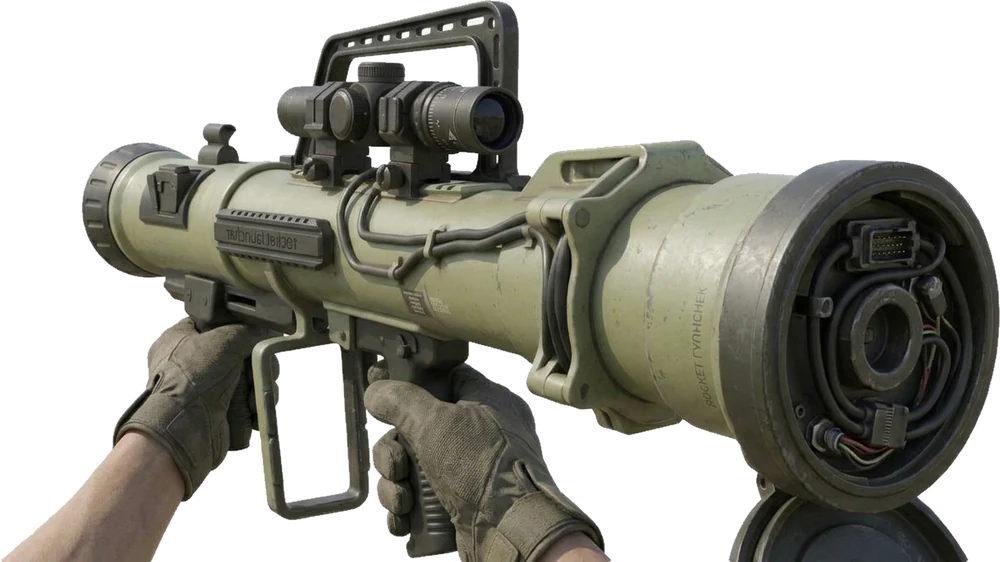
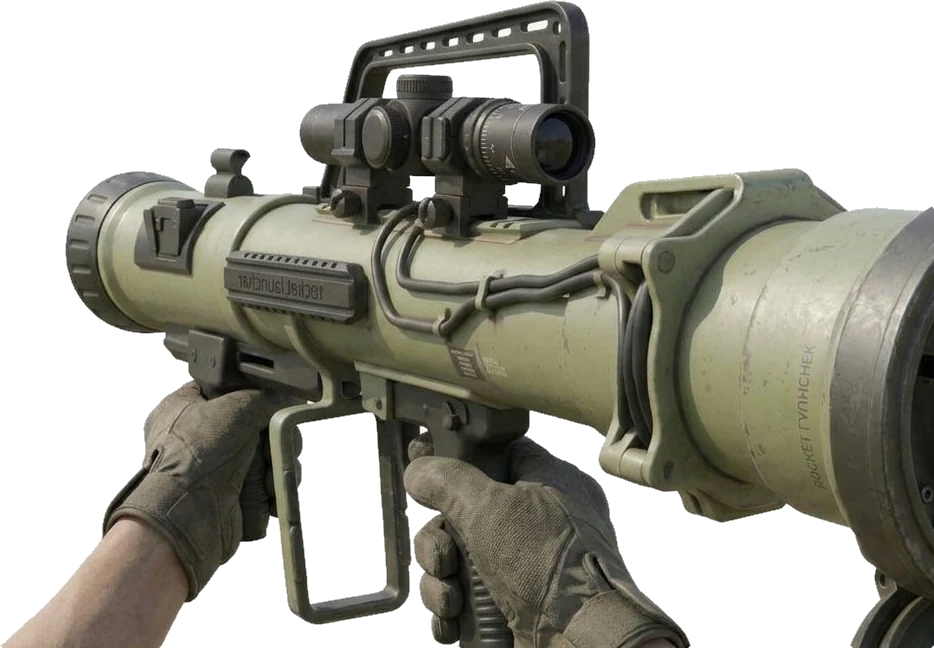
Invasión (correcciones 6): sonido de recarga, el doble de balas, fogonazos en los disparos, bazooka nueva sin carga de misil y 5 aliens nuevos (Anfibio, Brutox, Esporal, Mantis y Reptiliano) que caminan cuadro a cuadro
Claude-Session: https://claude.ai/code/session_01WPvz5PN7gSQSsHQttdLk8C

diff --git a/src/features/games/invasionWeapons.ts b/src/features/games/invasionWeapons.ts
@@ -10,7 +10,6 @@ import machineHand from './assets/invasion/armas/ametralladora-mano.webp';
 import machineReload from './assets/invasion/armas/ametralladora-carga.webp';
 import machineScope from './assets/invasion/armas/mira-ametralladora.webp';
 import bazookaHand from './assets/invasion/armas/bazooka-mano.webp';
-import bazookaReload from './assets/invasion/armas/bazooka-carga.webp';
 import type { Weapon } from './invasion';
 
 const images = new Map<string, HTMLImageElement>();
@@ -19,26 +18,32 @@ function img(url: string) {
   if (!im && typeof Image !== 'undefined') { im = new Image(); im.decoding = 'async'; im.src = url; images.set(url, im); }
   return im && im.complete && im.naturalWidth ? im : null;
 }
-export function preloadWeapons() { for (const u of [rifleHand, rifleReload, rifleScope, machineHand, machineReload, machineScope, bazookaHand, bazookaReload]) img(u); }
+export function preloadWeapons() { for (const u of [rifleHand, rifleReload, rifleScope, machineHand, machineReload, machineScope, bazookaHand]) img(u); }
 
 // Cómo va cada arma en la mano: alto (en fracción del alto de la pantalla) y cuánto se mete en el borde derecho.
 // `aim` (opcional): el caño de la imagen (boca de adelante y de atrás, en px de la imagen); el arma se ubica para
 // que esa línea pase justo por el "+" del medio, con la boca a `gap` (fracción del alto) del centro y girada `tilt`.
 interface Aim { front: [number, number]; back: [number, number]; tilt: number; gap: number }
-const HELD: Record<Weapon, { hand: string; reload: string; tall: number; reloadTall: number; out: number; reloadX: number; aim?: Aim }> = {
-  rifle: { hand: rifleHand, reload: rifleReload, tall: 0.6, reloadTall: 0.68, out: 0.06, reloadX: 0.6 },
-  machine: { hand: machineHand, reload: machineReload, tall: 0.56, reloadTall: 0.58, out: 0.04, reloadX: 0.66 },
-  bazooka: { hand: bazookaHand, reload: bazookaReload, tall: 0.8, reloadTall: 0.56, out: 0.06, reloadX: 0.6, aim: { front: [125, 210], back: [870, 330], tilt: 0.2, gap: 0.11 } },
+// `muzzle`: la boca del arma en la imagen de la mano (px de la imagen), para el fogonazo. `reload` null: no tiene imagen
+// de carga (la bazooka: al recargar solo baja un poco y vuelve).
+const HELD: Record<Weapon, { hand: string; reload: string | null; tall: number; reloadTall: number; out: number; reloadX: number; aim?: Aim; muzzle: [number, number]; flash: number }> = {
+  rifle: { hand: rifleHand, reload: rifleReload, tall: 0.6, reloadTall: 0.68, out: 0.06, reloadX: 0.6, muzzle: [392, 214], flash: 0.1 },
+  machine: { hand: machineHand, reload: machineReload, tall: 0.56, reloadTall: 0.58, out: 0.04, reloadX: 0.66, muzzle: [58, 175], flash: 0.08 },
+  bazooka: { hand: bazookaHand, reload: null, tall: 0.86, reloadTall: 0.86, out: 0.06, reloadX: 0.6, aim: { front: [100, 250], back: [880, 330], tilt: 0.2, gap: 0.11 }, muzzle: [100, 250], flash: 0.17 },
 };
 
 // El arma en la mano. `reload` va de 0 a 1 mientras se recarga (null si no); `kick` es el retroceso.
-export function drawHeldWeapon(ctx: CanvasRenderingContext2D, weapon: Weapon, w: number, h: number, mx: number, my: number, t: number, kick: number, reload: number | null) {
-  const d = HELD[weapon], im = img(reload === null ? d.hand : d.reload);
+export function drawHeldWeapon(ctx: CanvasRenderingContext2D, weapon: Weapon, w: number, h: number, mx: number, my: number, t: number, kick: number, reload: number | null, flash = 0) {
+  const d = HELD[weapon];
+  // Sin imagen de carga (la bazooka): al recargar se ve la misma arma, que baja un poco y vuelve.
+  const dip = reload !== null && !d.reload ? Math.sin(Math.min(1, reload) * Math.PI) * h * 0.22 : 0;
+  if (reload !== null && !d.reload) reload = null;
+  const im = img(reload === null ? d.hand : d.reload ?? d.hand);
   if (!im) return;
   const tall = h * (reload === null ? d.tall : d.reloadTall), wide = tall * im.naturalWidth / im.naturalHeight;
   // Se mueve un poco con la mira y con la respiración; el retroceso la tira para abajo y a la derecha.
   const swayX = (mx - w / 2) * 0.05, swayY = (my - h / 2) * 0.04 + Math.sin(t * 1.7) * h * 0.004;
-  let x: number, y = h - tall + h * 0.03 + swayY + kick * h * 0.035;
+  let x: number, y = h - tall + h * 0.03 + swayY + kick * h * 0.035 + dip;
   if (reload === null) x = w - wide * (1 - d.out) + swayX + kick * w * 0.012;
   else {
     // Al recargar: entra desde abajo, se mueve un poco mientras carga y vuelve a bajar.
@@ -52,15 +57,42 @@ export function drawHeldWeapon(ctx: CanvasRenderingContext2D, weapon: Weapon, w:
     const ax = A.front[0] - A.back[0], ay = A.front[1] - A.back[1], L = Math.hypot(ax, ay);
     const rot = A.tilt + kick * 0.04, ca = Math.cos(rot), sa = Math.sin(rot);
     const ux = (ax * ca - ay * sa) / L, uy = (ax * sa + ay * ca) / L; // hacia adonde apunta, ya girado
-    const mxs = w / 2 - ux * A.gap * h + swayX + kick * w * 0.01, mys = h / 2 - uy * A.gap * h + swayY + kick * h * 0.03;
+    const mxs = w / 2 - ux * A.gap * h + swayX + kick * w * 0.01, mys = h / 2 - uy * A.gap * h + swayY + kick * h * 0.03 + dip;
     ctx.save(); ctx.translate(mxs, mys); ctx.rotate(rot);
     ctx.drawImage(im, -A.front[0] * k, -A.front[1] * k, im.naturalWidth * k, tall);
     ctx.restore();
+    if (flash > 0) drawMuzzleFlash(ctx, mxs + ux * h * 0.02, mys + uy * h * 0.02, d.flash * h, flash, Math.atan2(uy, ux), t);
     return;
   }
   ctx.save();
   ctx.translate(x + wide * 0.5, y + tall * 0.5); ctx.rotate(kick * 0.03); ctx.translate(-(x + wide * 0.5), -(y + tall * 0.5));
   ctx.drawImage(im, x, y, wide, tall);
+  ctx.restore();
+  if (flash > 0 && reload === null) { const k = tall / im.naturalHeight; drawMuzzleFlash(ctx, x + d.muzzle[0] * k, y + d.muzzle[1] * k, d.flash * h, flash, Math.atan2(h / 2 - (y + d.muzzle[1] * k), w / 2 - (x + d.muzzle[0] * k)), t); }
+}
+
+// El fogonazo del disparo: un núcleo blanco, una llamarada en estrella hacia adelante (gira al azar en cada tiro) y
+// un brillo que ilumina un poco toda la pantalla. `f` va de 1 (recién disparado) a 0.
+export function drawMuzzleFlash(ctx: CanvasRenderingContext2D, x: number, y: number, size: number, f: number, dir: number, t: number) {
+  const r = size * (0.6 + f * 0.6);
+  ctx.save(); ctx.globalCompositeOperation = 'lighter';
+  const halo = ctx.createRadialGradient(x, y, 0, x, y, r * 2.4);
+  halo.addColorStop(0, `rgba(255,236,170,${0.55 * f})`); halo.addColorStop(0.35, `rgba(255,170,60,${0.3 * f})`); halo.addColorStop(1, 'rgba(255,120,30,0)');
+  ctx.fillStyle = halo; ctx.fillRect(x - r * 2.4, y - r * 2.4, r * 4.8, r * 4.8);
+  ctx.translate(x, y); ctx.rotate(dir + Math.sin(t * 97) * 0.25);
+  const spikes = 7, seed = Math.floor(t * 60);
+  ctx.beginPath();
+  for (let i = 0; i <= spikes * 2; i++) {
+    const a = i / (spikes * 2) * Math.PI * 2, long = i % 2 === 0, fwd = Math.max(0, Math.cos(a));
+    const len = long ? r * (0.55 + fwd * 1.3) * (0.75 + ((seed * 7 + i * 13) % 10) / 20) : r * 0.25;
+    const px = Math.cos(a) * len, py = Math.sin(a) * len * 0.7;
+    if (i) ctx.lineTo(px, py); else ctx.moveTo(px, py);
+  }
+  ctx.closePath();
+  const fire = ctx.createRadialGradient(0, 0, 0, 0, 0, r * 1.6);
+  fire.addColorStop(0, `rgba(255,255,240,${f})`); fire.addColorStop(0.3, `rgba(255,214,110,${0.95 * f})`); fire.addColorStop(1, `rgba(255,110,20,${0.15 * f})`);
+  ctx.fillStyle = fire; ctx.fill();
+  ctx.fillStyle = `rgba(255,255,255,${f})`; ctx.beginPath(); ctx.ellipse(0, 0, r * 0.32, r * 0.22, 0, 0, Math.PI * 2); ctx.fill();
   ctx.restore();
 }
 
@@ -87,7 +119,7 @@ const SCOPES = {
 export const hasScope = (weapon: Weapon) => weapon !== 'bazooka';
 
 // El vidrio de la mira centrado en (x, y), de "radio" R. `lens` dibuja la ciudad con zoom adentro (ya recortada).
-export function drawScopeView(ctx: CanvasRenderingContext2D, weapon: Weapon, x: number, y: number, R: number, zoom: number, kick: number, lens: (clip: () => void) => void) {
+export function drawScopeView(ctx: CanvasRenderingContext2D, weapon: Weapon, x: number, y: number, R: number, zoom: number, kick: number, lens: (clip: () => void) => void, flash = 0) {
   if (weapon === 'bazooka') return;
   const S = SCOPES[weapon], im = img(S.url);
   const k = weapon === 'rifle' ? R / SCOPES.rifle.r : (R * 1.08) / SCOPES.machine.hw;
@@ -108,7 +140,7 @@ export function drawScopeView(ctx: CanvasRenderingContext2D, weapon: Weapon, x: 
     ctx.strokeStyle = 'rgba(0,0,0,0.45)'; ctx.lineWidth = 14 * k; ctx.strokeRect(x - SCOPES.machine.hw * k, y - SCOPES.machine.hh * k, SCOPES.machine.hw * 2 * k, SCOPES.machine.hh * 2 * k);
     ctx.fillStyle = 'rgba(40,255,120,0.04)'; ctx.fillRect(x - SCOPES.machine.hw * k, y - SCOPES.machine.hh * k, SCOPES.machine.hw * 2 * k, SCOPES.machine.hh * 2 * k); // un poco de tinte de pantalla
   }
-  if (kick > 0.6) { ctx.fillStyle = `rgba(255,220,150,${(kick - 0.6) * 0.5})`; ctx.fillRect(x - R * 2, y - R * 2, R * 4, R * 4); }
+  if (flash > 0) { ctx.fillStyle = `rgba(255,220,150,${flash * 0.28})`; ctx.fillRect(x - R * 2, y - R * 2, R * 4, R * 4); drawMuzzleFlash(ctx, x, y + R * 0.95, R * 0.35, flash, -Math.PI / 2, kick); } // el fogonazo asoma por abajo del vidrio
   ctx.restore();
   if (im) ctx.drawImage(im, x - S.cx * k, y - S.cy * k, im.naturalWidth * k, im.naturalHeight * k);
   // El aumento, arriba a la derecha del vidrio.

diff --git a/src/features/games/invasionAliens.ts b/src/features/games/invasionAliens.ts
@@ -1,0 +1,68 @@
+// Los aliens nuevos de Invasión (hojas de personaje que pasó el usuario: Anfibio, Brutox, Esporal, Mantis y
+// Reptiliano). De cada hoja se recortaron los 8 cuadros de "caminando a la derecha" (y el ataque del Anfibio):
+// caminan cuadro a cuadro (stop motion), alineados por el torso y los pies. Quietos usan el primer cuadro; para
+// la izquierda se espeja (lo hace quien llama). Cada cuadro: x, y, ancho, alto en el atlas, el centro del torso
+// (x) y la mano de adelante (x, y), en px del cuadro.
+import anfibioUrl from './assets/invasion/aliens/anfibio.webp';
+import brutoxUrl from './assets/invasion/aliens/brutox.webp';
+import esporalUrl from './assets/invasion/aliens/esporal.webp';
+import mantisUrl from './assets/invasion/aliens/mantis.webp';
+import reptilianoUrl from './assets/invasion/aliens/reptiliano.webp';
+
+type Frame = [number, number, number, number, number, number, number];
+export type AlienSpecies = 'gris' | 'anfibio' | 'brutox' | 'esporal' | 'mantis' | 'reptiliano';
+export const ALIEN_SPECIES: AlienSpecies[] = ['gris', 'anfibio', 'brutox', 'esporal', 'mantis', 'reptiliano'];
+const SPECIES: Record<Exclude<AlienSpecies, 'gris'>, { url: string; tall: number; maxH: number; glow: string; frames: Frame[]; attack: Frame | null }> = {
+  anfibio: { url: anfibioUrl, tall: 1.0, maxH: 124, glow: 'rgba(80,230,255,0.95)', frames: [[0, 29, 104, 124, 53.5, 88, 78], [106, 29, 102, 124, 52.8, 91, 77], [210, 30, 106, 123, 60.2, 89, 76], [318, 30, 101, 123, 57.6, 87, 76], [421, 30, 105, 123, 58.8, 90, 74], [528, 29, 106, 124, 58.3, 91, 77], [636, 29, 106, 124, 57.8, 88, 77], [744, 31, 108, 122, 61.8, 94, 76]], attack: [854, 0, 149, 153, 67.7, 145, 54] },
+  brutox: { url: brutoxUrl, tall: 1.15, maxH: 168, glow: 'rgba(255,90,50,0.95)', frames: [[0, 4, 129, 164, 68.9, 127, 97], [131, 5, 109, 163, 50.8, 103, 96], [242, 6, 116, 162, 59.6, 100, 91], [360, 8, 123, 160, 58.8, 109, 98], [485, 2, 115, 166, 61.5, 113, 102], [602, 2, 117, 166, 57.2, 100, 103], [721, 2, 133, 166, 73.5, 132, 100], [856, 0, 124, 168, 68.0, 123, 101]], attack: null },
+  esporal: { url: esporalUrl, tall: 1.05, maxH: 111, glow: 'rgba(170,255,60,0.95)', frames: [[0, 1, 84, 110, 48.7, 80, 69], [86, 0, 82, 111, 45.7, 77, 70], [170, 1, 85, 110, 52.8, 84, 65], [257, 2, 90, 109, 53.7, 87, 69], [349, 1, 83, 110, 47.3, 66, 70], [434, 1, 89, 110, 52.9, 80, 70], [525, 1, 94, 110, 50.6, 88, 70], [621, 1, 82, 110, 44.9, 78, 70]], attack: null },
+  mantis: { url: mantisUrl, tall: 1.15, maxH: 197, glow: 'rgba(210,255,90,0.95)', frames: [[0, 6, 102, 191, 46.6, 96, 109], [104, 1, 108, 196, 52.9, 107, 101], [214, 0, 98, 197, 47.1, 97, 101], [314, 1, 117, 196, 59.6, 116, 104], [433, 1, 105, 196, 49.7, 104, 103], [540, 1, 85, 196, 42.6, 84, 102], [627, 7, 98, 190, 54.0, 97, 111], [727, 0, 85, 197, 43.0, 77, 107]], attack: null },
+  reptiliano: { url: reptilianoUrl, tall: 1.0, maxH: 106, glow: 'rgba(255,170,60,0.95)', frames: [[0, 1, 107, 105, 67.6, 93, 58], [109, 1, 95, 105, 67.9, 94, 58], [206, 1, 107, 105, 73.0, 106, 56], [315, 0, 115, 106, 72.6, 102, 58], [432, 1, 115, 105, 73.0, 99, 58], [549, 1, 116, 105, 71.0, 100, 57], [667, 1, 113, 105, 72.1, 103, 57], [782, 1, 116, 105, 76.7, 103, 59]], attack: null },
+};
+
+const loaded = new Map<string, { img: HTMLImageElement; black: HTMLCanvasElement | null; ok: boolean }>();
+function atlas(url: string) {
+  let a = loaded.get(url);
+  if (!a && typeof Image !== 'undefined') {
+    const img = new Image(); a = { img, black: null, ok: false }; loaded.set(url, a);
+    const entry = a;
+    img.onload = () => {
+      entry.ok = true;
+      const c = document.createElement('canvas'); c.width = img.width; c.height = img.height; // copia negra (la sombra en la pared)
+      const x = c.getContext('2d'); if (x) { x.drawImage(img, 0, 0); x.globalCompositeOperation = 'source-in'; x.fillStyle = '#000'; x.fillRect(0, 0, c.width, c.height); entry.black = c; }
+    };
+    img.src = url;
+  }
+  return a && a.ok ? a : null;
+}
+export function preloadAliens() { for (const s of Object.values(SPECIES)) atlas(s.url); }
+
+type Pt = [number, number];
+// Dibuja al alien con los pies en (0, 0), mirando a la derecha, de alto H. Devuelve la cabeza, de dónde sale el
+// rayo (menos 0,15 H, como espera `drawPerson`) y la mano; null si la imagen todavía no cargó.
+export function drawAlienSpecies(ctx: CanvasRenderingContext2D, species: Exclude<AlienSpecies, 'gris'>, H: number, k: number, t: number, o: { kind: string; firing: boolean; flat: boolean }) {
+  const S = SPECIES[species], a = atlas(S.url);
+  if (!a) return null;
+  const moving = o.kind === 'walk' || o.kind === 'run';
+  const phase = ((k / (Math.PI * 2)) % 1 + 1) % 1;
+  const f: Frame = o.firing && S.attack ? S.attack : moving ? S.frames[Math.floor(phase * 8) % 8] : S.frames[0];
+  const [fx, fy, fw, fh, ax, hx, hy] = f;
+  const sc = H * S.tall / S.maxH;
+  const low = o.kind === 'squat' || o.kind === 'sit' || o.kind === 'crawl';
+  const squash = low ? 0.8 : 1;
+  const bob = moving ? 0 : Math.sin(t * 1.6 + k) * H * 0.006; // quieto, respira un poquito
+  ctx.save();
+  ctx.imageSmoothingEnabled = true; ctx.imageSmoothingQuality = 'high';
+  ctx.translate(0, bob); ctx.scale(sc, sc * squash);
+  ctx.drawImage(o.flat && a.black ? a.black : a.img, fx, fy, fw, fh, -ax, -fh, fw, fh);
+  const hand: Pt = [(hx - ax) * sc, (hy - fh) * sc * squash + bob];
+  if (o.firing && !o.flat) { // la energía que tira (del color de cada especie)
+    ctx.restore(); ctx.save();
+    const r = H * (0.1 + Math.sin(t * 40) * 0.02);
+    const gr = ctx.createRadialGradient(hand[0], hand[1], 0, hand[0], hand[1], r);
+    gr.addColorStop(0, 'rgba(255,255,240,0.95)'); gr.addColorStop(0.35, S.glow); gr.addColorStop(1, 'rgba(0,0,0,0)');
+    ctx.globalCompositeOperation = 'lighter'; ctx.fillStyle = gr; ctx.fillRect(hand[0] - r, hand[1] - r, r * 2, r * 2);
+  }
+  ctx.restore();
+  return { head: [(fw * 0.62 - ax) * sc, -fh * 0.86 * sc * squash + bob] as Pt, ray: [hand[0] - H * 0.15, hand[1]] as Pt, hand, r: H * 0.13 };
+}

diff --git a/src/features/games/invasionPeople.ts b/src/features/games/invasionPeople.ts
@@ -3,6 +3,7 @@
 // posturas (sentados, acostados, agachados, estirando el brazo, con los brazos arriba, gateando), con lo que
 // tienen en la mano según lo que hacen, los aliens grises y todas las anomalías.
 import { drawGraySprite } from './invasionGray';
+import { ALIEN_SPECIES, drawAlienSpecies, type AlienSpecies } from './invasionAliens';
 import { anomalyOf, poseOf, revealed, roomOf, type Invasion, type Person, type Pose } from './invasion';
 import type { AnomalyFx, PropKind } from './invasionAnomalies';
 
@@ -95,6 +96,7 @@ export interface Outfit {
   // Los detalles de cada uno: qué tiene puesto arriba, anteojos, barba o bigote, mochila o cartera, reloj, aros, corbata.
   top: Top; glasses: boolean; beard: 0 | 1 | 2; bag: 0 | 1 | 2; watch: boolean; earring: boolean; tie: boolean; inner: string; belt: string;
   alienHead?: boolean; // el disfraz se le cae: la ropa es la de siempre pero la cara es la de un alien gris
+  species?: AlienSpecies; // de qué especie es el alien
 }
 const TOPS: Top[] = ['tee', 'shirt', 'hoodie', 'jacket', 'sweater', 'tee', 'shirt'];
 export function outfitOf(p: Person, skinOverride?: string): Outfit {
@@ -114,10 +116,13 @@ export function outfitOf(p: Person, skinOverride?: string): Outfit {
     tie: top === 'shirt' && ex(6) < 0.4 && !L.kid, inner: hsl(L.shirt2, 30, 88), belt: ex(7) < 0.5 ? '#1c1917' : '#78350f',
   };
 }
+// Cada alien es de una especie (por su número): el gris o uno de los 5 nuevos.
 const ALIEN: Outfit = {
   skin: '#a3a6ab', hair: '#a3a6ab', hat: 'bald', hatColor: '#a3a6ab', shirt: ['#9a9da2', '#9a9da2', '#9a9da2'], pants: '#8b8e93', shoes: '#6b6e73', vest: false, alien: true,
   top: 'tee', glasses: false, beard: 0, bag: 0, watch: false, earring: false, tie: false, inner: '#9ca3af', belt: '#8b9099',
 };
+const ALIENS: Outfit[] = ALIEN_SPECIES.map(species => ({ ...ALIEN, species }));
+const alienOutfit = (p: Person) => ALIENS[p.id % ALIENS.length];
 
 const line = (ctx: CanvasRenderingContext2D, color: string, width: number, ...pts: Pt[]) => {
   ctx.strokeStyle = color; ctx.lineWidth = width; ctx.lineCap = 'round'; ctx.lineJoin = 'round';
@@ -479,6 +484,14 @@ function drawGrayHead(ctx: CanvasRenderingContext2D, base: string, x: number, y:
 }
 
 function drawGray(ctx: CanvasRenderingContext2D, o: Outfit, kind: Pose['kind'], H: number, k: number, t: number, opts: BodyOpts, sk: Skel, dead: boolean) {
+  // Los aliens nuevos (Anfibio, Brutox, Esporal, Mantis, Reptiliano): cuadro a cuadro con sus imágenes.
+  if (o.species && o.species !== 'gris') {
+    const al = drawAlienSpecies(ctx, o.species, H, k, t, { kind: dead ? 'stand' : kind, firing: opts.prop === 'raygun', flat: o.skin === '#000' });
+    if (al) {
+      if (opts.prop && opts.prop !== 'raygun') drawProp(ctx, opts.prop, al.hand[0], al.hand[1], H * 0.6, t, opts.propUpside);
+      return { head: al.head, handF: al.ray, r: al.r };
+    }
+  }
   // Primero, el gris armado con la imagen de referencia (si ya cargó); si no, el dibujado a mano de abajo.
   const sprite = drawGraySprite(ctx, H, k, t, { kind: dead ? 'stand' : kind, firing: opts.prop === 'raygun', flat: o.skin === '#000', eyes: opts.head?.eyes, lean: opts.lean });
   if (sprite) {
@@ -780,7 +793,7 @@ export function drawPerson(ctx: CanvasRenderingContext2D, g: Invasion, p: Person
   if (p.dog && !p.dead) drawDog(ctx, sx + p.dir * H * 0.55, sy, H * 0.45, p.dir, p.moving ? t * 12 : 0, false);
   if (body.handF) body.handF = [body.handF[0] * H, body.handF[1] * H];
   if (body.handB) body.handB = [body.handB[0] * H, body.handB[1] * H];
-  const outfit = isAlien ? ALIEN : outfitOf(p, skin);
+  const outfit = isAlien ? alienOutfit(p) : outfitOf(p, skin);
   body.vest = !isAlien && p.job === 'worker';
   body.sx = pose.sx;
   if (isAlien && body.head) body.head = { ...body.head, face: front ? 'front' : undefined };
@@ -868,7 +881,7 @@ export function drawPerson(ctx: CanvasRenderingContext2D, g: Invasion, p: Person
 
 // Visto de muy lejos (el fondo de la mira): solo la silueta con los colores de la ropa.
 function drawTiny(ctx: CanvasRenderingContext2D, p: Person, pose: Pose, sx: number, sy: number, H: number, alien: boolean, t: number) {
-  const o = alien ? ALIEN : outfitOf(p), lie = pose.kind === 'lie' || pose.kind === 'dead';
+  const o = alien ? alienOutfit(p) : outfitOf(p), lie = pose.kind === 'lie' || pose.kind === 'dead';
   const y = sy - pose.lift * H;
   if (lie) { ctx.fillStyle = o.shirt[1]; ctx.fillRect(sx - H * 0.4, y - H * 0.18, H * 0.8, H * 0.16); dot(ctx, o.skin, sx + pose.dir * H * 0.45, y - H * 0.12, H * 0.12); return; }
   const h = pose.kind === 'sit' || pose.kind === 'squat' ? H * 0.75 : H, w = Math.max(1.5, H * 0.26);

diff --git a/src/features/games/InvasionGame.tsx b/src/features/games/InvasionGame.tsx
@@ -58,7 +58,7 @@ export function Invasion() {
   // `cam`: dónde está la vista (se mueve con las flechas). `mouse`: dónde está la mira en la pantalla.
   const cam = useRef({ x: 60, y: (CITY_TOP + -3.4) / 2, lagX: 0, lagY: 0 }); // lag: cuánto se movió hace poco (el arma se atrasa un poco)
   const mouse = useRef({ x: -1, y: -1 });
-  const aim = useRef({ zoom: START_ZOOM, target: START_ZOOM, kick: 0, breath: BREATH, holding: false, swayT: 0, shake: 0, flash: 0, scoped: false });
+  const aim = useRef({ zoom: START_ZOOM, target: START_ZOOM, kick: 0, breath: BREATH, holding: false, swayT: 0, shake: 0, flash: 0, scoped: false, muzzle: 0 }); // muzzle: el fogonazo del último disparo (1 → 0)
   const arsenal = useRef(createArsenal());
   const selected = useRef<Weapon>('rifle');
   const trigger = useRef(false);
@@ -154,11 +154,11 @@ export function Invasion() {
           clip();
           ctx.translate(p.mx - R * 1.4, p.my - R * 1.4);
           paintCity(ctx, g, { w: R * 2.8, h: R * 2.8, s: a.zoom, cx: p.x, cy: p.y, t: g.time, dpr }, touch ? 2 : 6); // (en celulares arma de a pocas habitaciones nuevas por cuadro)
-        });
+        }, a.muzzle);
       } else {
         // Sin mira: el arma en la mano (o recargando) y el "+" para apuntar.
-        drawHeldWeapon(ctx, wpn, w, h, p.mx - cam.current.lagX * 1.6, p.my - cam.current.lagY * 1.6, g.time, a.kick, reloading ? 1 - G.reload / WEAPONS[wpn].reload : null);
-        if (!reloading) drawCross(ctx, p.mx, p.my, wpn, g.time);
+        drawHeldWeapon(ctx, wpn, w, h, p.mx - cam.current.lagX * 1.6, p.my - cam.current.lagY * 1.6, g.time, a.kick, reloading ? 1 - G.reload / WEAPONS[wpn].reload : null, a.muzzle);
+        if (!reloading || wpn === 'bazooka') drawCross(ctx, p.mx, p.my, wpn, g.time);
       }
     }
     ctx.setTransform(dpr, 0, 0, dpr, 0, 0);
@@ -224,6 +224,7 @@ export function Invasion() {
     const p = target(stage.clientWidth, stage.clientHeight);
     G.mag--;
     aim.current.kick = current === 'machine' ? 0.33 : 1;
+    aim.current.muzzle = 1;
     if (current === 'bazooka') playBazookaShot(); else if (current === 'machine') playMachineShot(); else playRifleShot();
     reactToHit(shoot(g, p.x, p.y, current));
     if (G.mag > 0) { G.cycle = config.cycle; if (current === 'rifle') playBolt(); }
@@ -242,7 +243,7 @@ export function Invasion() {
     gameRef.current = newInvasion();
     const g = gameRef.current;
     cam.current.x = g.width * (0.3 + Math.random() * 0.4); cam.current.y = (TOP_Y + FLOOR_Y) / 2;
-    Object.assign(aim.current, { zoom: minZoom(), target: minZoom(), kick: 0, breath: BREATH, holding: false, swayT: 0, shake: 0, flash: 0, scoped: false });
+    Object.assign(aim.current, { zoom: minZoom(), target: minZoom(), kick: 0, breath: BREATH, holding: false, swayT: 0, shake: 0, flash: 0, scoped: false, muzzle: 0 });
     arsenal.current = createArsenal();
     selected.current = 'rifle';
     trigger.current = false;
@@ -276,6 +277,7 @@ export function Invasion() {
       step(g, dt);
       a.swayT += dt;
       a.kick = Math.max(0, a.kick - dt * 4);
+      a.muzzle = Math.max(0, a.muzzle - dt * (selected.current === 'bazooka' ? 5 : 10)); // el fogonazo dura un instante (el de la bazooka, un poco más)
       a.shake = Math.max(0, a.shake - dt * 2.2);
       a.flash = a.flash > 0 ? Math.max(0, a.flash - dt * 3) : Math.min(0, a.flash + dt * 2);
       a.zoom += (a.target - a.zoom) * Math.min(1, dt * 10);

diff --git a/src/features/games/sounds.ts b/src/features/games/sounds.ts
@@ -57,6 +57,7 @@ import invBazookaVueloUrl from './assets/sonidos/invasion-bazooka-vuelo.mp3';
 import invBazookaBoomUrl from './assets/sonidos/invasion-bazooka-explosion.mp3';
 import invAlienHablaUrl from './assets/sonidos/invasion-alien-voz.mp3'; // la voz alienígena que pasó el usuario (alien_voz.mp3)
 import invMusicaUrl from './assets/sonidos/invasion-musica.mp3';
+import invRecargaUrl from './assets/sonidos/invasion-recarga.mp3';
 import invLluviaUrl from './assets/sonidos/invasion-lluvia.mp3';
 import propulsorUrl from './assets/sonidos/propulsor.mp3';
 import trepaCiudadUrl from './assets/sonidos/trepa-ciudad.mp3';
@@ -928,7 +929,7 @@ export function setCrowd(level: number) {
 
 // ---------- Invasión ----------
 let invasionAmbient: Record<InvasionChannel, Channel> | null = null;
-export function preloadInvasionSounds() { for (const url of [fuegoUrl, lluviaUrl, ...TRUENOS, invTiroUrl, invSangreAlienUrl, invSangreHumanoUrl, invBombaUrl, invAutosUrl, invPajarosUrl, invPersonasUrl, penUfoUrl, penUfoShotUrl, invAmetralladoraUrl, invBazookaVueloUrl, invBazookaBoomUrl, invAlienHablaUrl, invMusicaUrl, invLluviaUrl]) loadSample(url); }
+export function preloadInvasionSounds() { for (const url of [fuegoUrl, lluviaUrl, ...TRUENOS, invTiroUrl, invSangreAlienUrl, invSangreHumanoUrl, invBombaUrl, invAutosUrl, invPajarosUrl, invPersonasUrl, penUfoUrl, penUfoShotUrl, invAmetralladoraUrl, invBazookaVueloUrl, invBazookaBoomUrl, invAlienHablaUrl, invMusicaUrl, invRecargaUrl, invLluviaUrl]) loadSample(url); }
 // Voces en un idioma inventado: una voz (tono que sube y baja) que pasa por dos "formantes" que cambian todo
 // el tiempo (las vocales) y se corta en sílabas.
 function babble(c: AudioContext, out: AudioNode, pitch: number, rate: number) {
@@ -1053,7 +1054,9 @@ export function playBolt() {
   burst(c, 'highpass', 2500, t + 0.38, 0.06, 0.4); tone(c, 'square', 600, 500, t + 0.38, 0.06, 0.1);
 }
 // Recarga: el cargador que sale, el nuevo que entra y el cerrojo.
+// Recargar: la grabación que pasó el usuario (recarga.mp3); si no cargó, los clics sintetizados de antes.
 export function playReload() {
+  if (playSample(invRecargaUrl, 1.3)) return;
   const c = running(); if (!c) return;
   const t = c.currentTime;
   for (const d of [0.1, 0.9, 1.6, 1.85]) { burst(c, 'bandpass', 1800, t + d, 0.07, 0.35); tone(c, 'square', 500, 380, t + d, 0.06, 0.06); }

diff --git a/tests/app.spec.ts b/tests/app.spec.ts
@@ -631,24 +631,24 @@ test('Invasión: se abre desde Juegos, corre el tiempo, se dispara, se recarga y
   await expect(page.getByTestId('inv-humans')).toHaveText(/^[1-9]\d*$/);
   await expect(page.getByTestId('inv-aliens')).toHaveText('50');
   await expect(page.getByTestId('inv-score')).toHaveText('0');
-  await expect(page.getByTestId('inv-ammo')).toHaveText('5 / 5');
+  await expect(page.getByTestId('inv-ammo')).toHaveText('10 / 10');
   await page.keyboard.press('Enter');
-  await expect(page.getByTestId('inv-ammo')).toHaveText('4 / 5');
+  await expect(page.getByTestId('inv-ammo')).toHaveText('9 / 10');
   await page.keyboard.press('Space');
   const armory = page.getByRole('dialog', { name: 'Seleccioná un arma' });
   await expect(armory).toBeVisible();
   const weapons = armory.locator('.inv-weapon-card strong');
   await expect(weapons).toHaveText(['Rifle de francotirador', 'Ametralladora', 'Bazooka']);
   await expect.poll(() => armory.locator('img').evaluateAll(images => images.every(image => (image as HTMLImageElement).naturalWidth > 0))).toBe(true);
-  await expect(page.getByTestId('inv-ammo')).toHaveText('4 / 5');
+  await expect(page.getByTestId('inv-ammo')).toHaveText('9 / 10');
   await armory.getByRole('button', { name: /Ametralladora/ }).click();
-  await expect(page.getByTestId('inv-ammo')).toHaveText('24 / 24');
+  await expect(page.getByTestId('inv-ammo')).toHaveText('48 / 48');
   await page.getByRole('button', { name: /Arsenal/ }).click();
   await expect(armory).toBeVisible();
   await page.keyboard.press('3');
-  await expect(page.getByTestId('inv-ammo')).toHaveText('1 / 1');
+  await expect(page.getByTestId('inv-ammo')).toHaveText('2 / 2');
   await page.keyboard.press('1');
-  await expect(page.getByTestId('inv-ammo')).toHaveText('4 / 5');
+  await expect(page.getByTestId('inv-ammo')).toHaveText('9 / 10');
   await expect(page.locator('button[aria-label="Mover la vista a la derecha"]')).toHaveCount(1); // en la compu está oculto: se usan las flechas
   await page.keyboard.press('p');
   await expect(page.getByRole('heading', { name: 'Pausa' })).toBeVisible();

diff --git a/src/features/games/invasion.ts b/src/features/games/invasion.ts
@@ -15,12 +15,12 @@ export const SIDEWALK_Y = 0, ROAD_Y = -1.6;
 const UFO_DY = 0.15, UFO_HALF_H = 3.85;
 export const UFO_FROM = 300; // a los 5 minutos llegan los ovnis
 export const RAIN_FROM = 180; // a los 3 minutos empieza a llover
-export const MAG = 5, BOLT_TIME = 0.75, RELOAD_TIME = 2.2;
+export const MAG = 10, BOLT_TIME = 0.75, RELOAD_TIME = 2.2; // (10 balas: el doble desde las correcciones 6)
 export type Outcome = 'won' | 'time';
 export const WEAPONS = {
   rifle: { name: 'Rifle de francotirador', mag: MAG, cycle: BOLT_TIME, reload: RELOAD_TIME, zoom: 520, start: 58 },
-  machine: { name: 'Ametralladora', mag: 24, cycle: 0.115, reload: 1.9, zoom: 120, start: 43 },
-  bazooka: { name: 'Bazooka', mag: 1, cycle: 0.5, reload: 3.1, zoom: 85, start: 36 },
+  machine: { name: 'Ametralladora', mag: 48, cycle: 0.115, reload: 1.9, zoom: 120, start: 43 },
+  bazooka: { name: 'Bazooka', mag: 2, cycle: 0.5, reload: 3.1, zoom: 85, start: 36 },
 } as const;
 export type Weapon = keyof typeof WEAPONS;
 export const ALIEN_POINTS = 100;

diff --git a/src/features/games/invasionGray.ts b/src/features/games/invasionGray.ts
@@ -3,6 +3,7 @@
 // Las piezas giran en la cadera, la rodilla y el tobillo, así el gris camina y corre con las piernas.
 // Todo se mide en píxeles de la imagen original (1536 × 1024), mirando a la derecha; el atlas está a la mitad.
 import grisUrl from './assets/invasion/gris.webp';
+import { preloadAliens } from './invasionAliens';
 
 type Pt = [number, number];
 interface Piece { x: number; y: number; w: number; h: number; ox: number; oy: number }
@@ -40,7 +41,7 @@ function load() {
   };
   atlas.src = grisUrl;
 }
-export function preloadGray() { load(); }
+export function preloadGray() { load(); preloadAliens(); }
 
 const ang = (a: Pt, b: Pt) => Math.atan2(b[1] - a[1], b[0] - a[0]);
 const dist = (a: Pt, b: Pt) => Math.hypot(b[0] - a[0], b[1] - a[1]);
